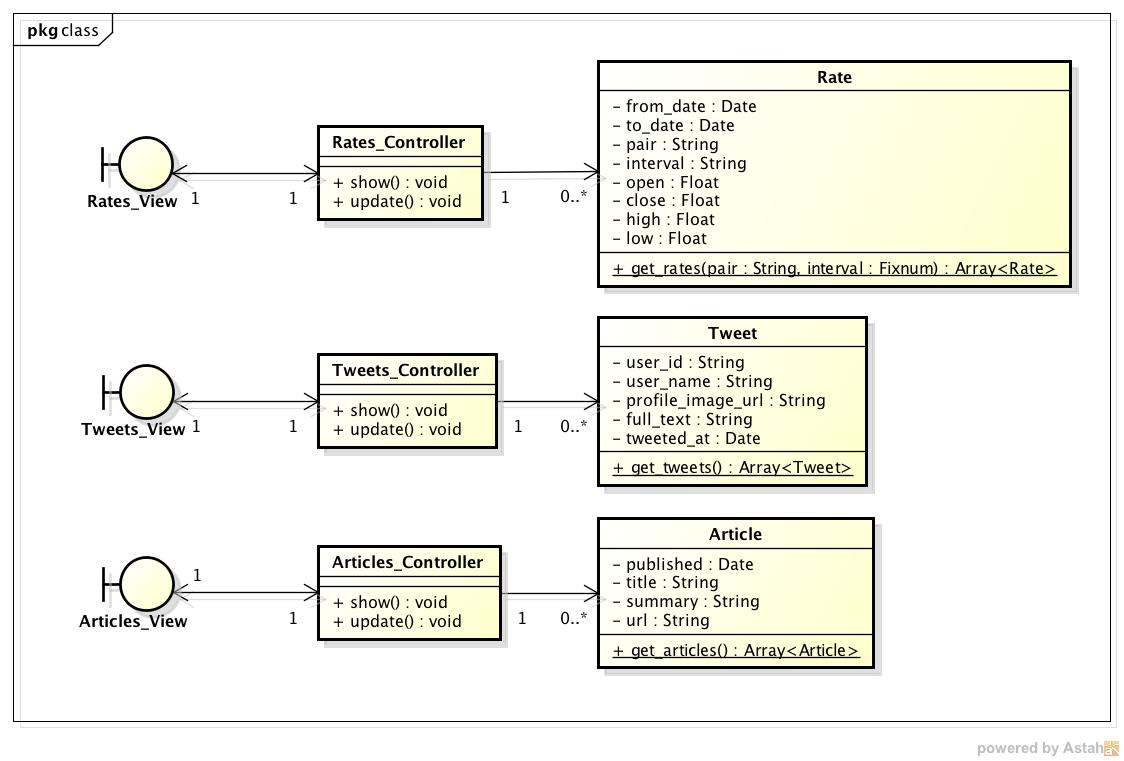
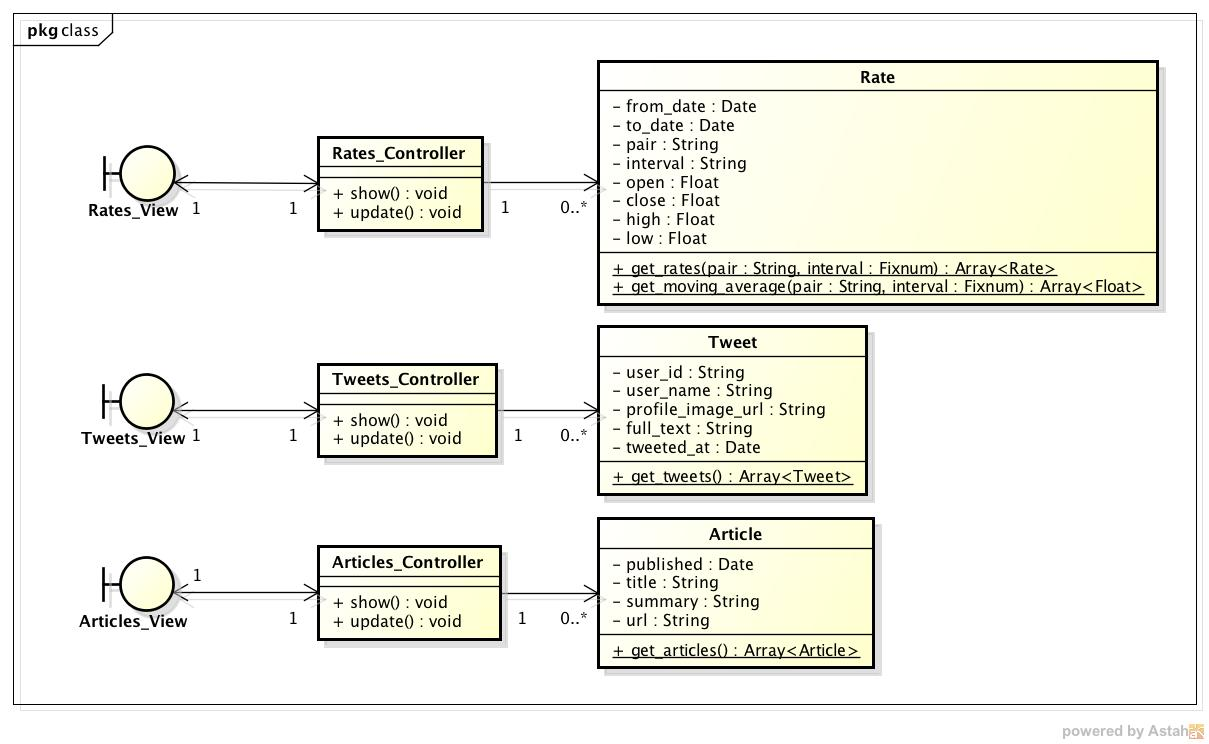
udpate design spec

Changed region(s): [[0.0623, 0.0309, 0.9964, 0.9892], [0.0, 0.0, 0.1246, 0.0927], [0.0, 0.9274, 0.0311, 0.9583]]

diff --git a/regulus/sphinx/_build/html/searchindex.js b/regulus/sphinx/_build/html/searchindex.js
@@ -1,1 +1,1 @@
-Search.setIndex({envversion:46,filenames:["design_spec","functional_spec","index","requirements_spec"],objects:{},objnames:{},objtypes:{},terms:{"10\u5206\u8db3":0,"12\u6642\u9593\u8db3":0,"1\u30f6\u6708\u8db3":0,"1\u65e5\u8db3":0,"1\u6642\u9593\u306a\u3069":1,"1\u6642\u9593\u8db3":0,"1\u672c\u306e\u30ed\u30fc\u30bd\u30af\u8db3\u304c\u8868\u3059\u671f\u9593":1,"1\u9031\u9593\u8db3":0,"20\u5206\u8db3":0,"2\u6642\u9593\u8db3":0,"30\u5206\u8db3":0,"3\u6642\u9593\u8db3":0,"4\u6642\u9593\u8db3":0,"5\u5206\u306a\u3069":0,"5\u5206\u8db3":0,"5\u5206\u9593":1,"6\u6642\u9593\u8db3":0,"\u3042\u308b\u6642\u70b9\u3067\u306e\u70ba\u66ff\u30ec\u30fc\u30c8\u306e\u60c5\u5831\u3092\u8868\u3059":1,"\u306b\u3088\u308a\u5b9a\u671f\u7684\u306b\u30ec\u30b3\u30fc\u30c9\u304c\u8ffd\u52a0\u3055\u308c\u308b":0,"\u306erss\u304b\u3089\u53d6\u5f97\u3057\u305f\u8a18\u4e8b\u3092\u30d6\u30e9\u30a6\u30b6\u4e0a\u306b\u8868\u793a\u3059\u308b":3,"\u3092\u5229\u7528\u3057\u3066\u53d6\u5f97\u3059\u308b":1,"\u3092\u6307\u5b9a\u3059\u308b":0,"\u3092\u6761\u4ef6\u3068\u3057\u3066\u691c\u7d22\u3057\u305f\u7d50\u679c\u3067\u3042\u308b":3,"\u30a2\u30ab\u30a6\u30f3\u30c8\u306e\u30d7\u30ed\u30d5\u30a3\u30fc\u30eb\u753b\u50cf\u306eurl":0,"\u30a2\u30d7\u30ea\u306f\u5c02\u7528\u30c7\u30fc\u30bf\u30d9\u30fc\u30b9\u304b\u3089\u30b3\u30d4\u30fc\u3057\u305f\u3082\u306e\u3092\u4f7f\u7528\u3059\u308b":0,"\u30ab\u30c3\u30b3\u5185\u306f\u30c6\u30fc\u30d6\u30eb\u306b\u767b\u9332\u3055\u308c\u308b\u6587\u5b57\u5217":0,"\u30ab\u30e9\u30e0":0,"\u30af\u30e9\u30b9\u56f3":0,"\u30b0\u30e9\u30d5\u306f\u5b9a\u671f\u7684\u306b\u66f4\u65b0\u3055\u308c\u308b":[1,3],"\u30b7\u30b9\u30c6\u30e0\u306f\u30c4\u30a4\u30fc\u30c8\u3092\u8868\u793a\u3059\u308b":3,"\u30b7\u30b9\u30c6\u30e0\u306f\u70ba\u66ff\u30ec\u30fc\u30c8\u306e\u5909\u5316\u3092\u8868\u3059\u30b0\u30e9\u30d5\u3092\u8868\u793a\u3059\u308b":3,"\u30b7\u30b9\u30c6\u30e0\u306f\u8a18\u4e8b\u3092\u8868\u793a\u3059\u308b":3,"\u30b7\u30fc\u30b1\u30f3\u30b9\u56f3":0,"\u30b9\u30af\u30ea\u30d7\u30c8\u540d":0,"\u30b9\u30af\u30ed\u30fc\u30eb\u3059\u308b\u3053\u3068\u3067\u53e4\u3044\u30c4\u30a4\u30fc\u30c8\u3092\u898b\u308b\u3053\u3068\u304c\u3067\u304d\u308b":1,"\u30b9\u30af\u30ed\u30fc\u30eb\u3059\u308b\u3053\u3068\u3067\u53e4\u3044\u8a18\u4e8b\u3092\u898b\u308b\u3053\u3068\u304c\u3067\u304d\u308b":1,"\u30bf\u30a4\u30c8\u30eb":1,"\u30bf\u30d6\u3092\u62bc\u3059\u3053\u3068\u3067\u8868\u793a\u3059\u308b\u3082\u306e\u3092\u5207\u308a\u66ff\u3048\u308b":1,"\u30c4\u30a4\u30fc\u30c8":0,"\u30c4\u30a4\u30fc\u30c8\u3057\u305f\u30e6\u30fc\u30b6\u30fc\u306e\u30d7\u30ed\u30d5\u30a3\u30fc\u30eb\u753b\u50cf":1,"\u30c4\u30a4\u30fc\u30c8\u3057\u305f\u30e6\u30fc\u30b6\u30fc\u306eid":1,"\u30c4\u30a4\u30fc\u30c8\u3057\u305f\u30e6\u30fc\u30b6\u540d":0,"\u30c4\u30a4\u30fc\u30c8\u3057\u305f\u65e5\u6642":[0,1],"\u30c4\u30a4\u30fc\u30c8\u306e\u30e6\u30fc\u30b6\u30fc\u540d":0,"\u30c4\u30a4\u30fc\u30c8\u306eid":0,"\u30c4\u30a4\u30fc\u30c8\u306f\u5b9a\u671f\u7684\u306b\u66f4\u65b0\u3055\u308c\u308b":3,"\u30c4\u30a4\u30fc\u30c8\u3084\u305d\u308c\u306b\u95a2\u9023\u3059\u308b\u60c5\u5831\u306ftwitter\u306eapi\u3092\u5229\u7528\u3057\u3066\u53d6\u5f97\u3059\u308b":1,"\u30c4\u30a4\u30fc\u30c8\u3092\u53d6\u5f97\u3059\u308b":0,"\u30c4\u30a4\u30fc\u30c8\u3092\u767b\u9332\u3059\u308btweets\u30c6\u30fc\u30d6\u30eb":0,"\u30c4\u30a4\u30fc\u30c8\u3092\u8868\u3059\u30af\u30e9\u30b9":0,"\u30c4\u30a4\u30fc\u30c8\u53d6\u5f97\u65e5":0,"\u30c4\u30a4\u30fc\u30c8\u60c5\u5831\u3092\u30d0\u30c3\u30af\u30a2\u30c3\u30d7\u3059\u308b":0,"\u30c4\u30a4\u30fc\u30c8\u65e5\u6642":[0,1],"\u30c4\u30a4\u30fc\u30c8\u672c\u6587":[0,1],"\u30c4\u30a4\u30fc\u30c8\u7528\u30b9\u30af\u30ea\u30d7\u30c8":0,"\u30c4\u30a4\u30fc\u30c8id":0,"\u30c7\u30fc\u30bf\u30d9\u30fc\u30b9\u306b\u306f":0,"\u30c9\u30eb\u5186":1,"\u30d0\u30c3\u30af\u30a2\u30c3\u30d7\u306a\u3069\u306e\u7ba1\u7406\u306f\u5916\u90e8\u30b9\u30af\u30ea\u30d7\u30c8\u3067\u5b9a\u671f\u7684\u306b\u5b9f\u884c\u3059\u308b":0,"\u30d3\u30e5\u30fc\u306b\u8868\u793a\u3059\u308b":0,"\u30d6\u30e9\u30a6\u30b6\u5168\u4f53\u306f\u30b9\u30af\u30ed\u30fc\u30eb\u3057\u306a\u3044":1,"\u30d7\u30ed\u30d5\u30a3\u30fc\u30eb\u753b\u50cf":1,"\u30da\u30a2":1,"\u30db\u30b9\u30c8\u540d":0,"\u30e6\u30fc\u30b6\u306e\u30d7\u30ed\u30d5\u30a3\u30fc\u30eb\u753b\u50cf":0,"\u30e6\u30fc\u30b6\u30fcid":1,"\u30e6\u30fc\u30b9\u30b1\u30fc\u30b9\u30b7\u30ca\u30ea\u30aa":3,"\u30e6\u30fc\u30b9\u30b1\u30fc\u30b9\u56f3":3,"\u30e6\u30fc\u30ed\u5186":1,"\u30ec\u30b3\u30fc\u30c9\u304c\u4f5c\u6210\u3055\u308c\u305f\u6642\u523b":0,"\u30ec\u30b3\u30fc\u30c9\u304c\u66f4\u65b0\u3055\u308c\u305f\u6642\u523b":0,"\u30ec\u30fc\u30c8":[0,1],"\u30ec\u30fc\u30c8\u60c5\u5831\u3092\u30d0\u30c3\u30af\u30a2\u30c3\u30d7\u3059\u308b":0,"\u30ec\u30fc\u30c8\u60c5\u5831\u3092\u767b\u9332\u3059\u308brates\u30c6\u30fc\u30d6\u30eb":0,"\u30ec\u30fc\u30c8\u60c5\u5831\u3092\u96c6\u7d04\u3057\u3066\u30ed\u30fc\u30bd\u30af\u8db3\u30c7\u30fc\u30bf\u3092\u4f5c\u6210\u3059\u308b":0,"\u30ec\u30fc\u30c8\u7528\u30b9\u30af\u30ea\u30d7\u30c8":0,"\u30ed\u30fc\u30bd\u30af\u8db3\u306b\u95a2\u3059\u308b\u30c7\u30fc\u30bf\u304c1\u3064\u306e\u30ec\u30b3\u30fc\u30c9\u3068\u3057\u3066\u4f5c\u6210\u3055\u308c\u308b":0,"\u30ed\u30fc\u30bd\u30af\u8db3\u30b0\u30e9\u30d5\u3092\u4f7f\u3063\u3066\u70ba\u66ff\u30ec\u30fc\u30c8\u306e\u5909\u52d5\u3092\u8868\u3059":1,"\u30ed\u30fc\u30bd\u30af\u8db3\u30c7\u30fc\u30bf\u306f\u751f\u30c7\u30fc\u30bf\u3092\u4f7f\u3063\u3066\u5b9a\u671f\u7684\u306b\u96c6\u8a08\u3055\u308c\u308b":0,"\u4e3b\u30ad\u30fc":0,"\u4ee5\u4e0b\u306e\u3044\u305a\u308c\u304b\u304c\u4fdd\u6301\u3055\u308c\u3066\u3044\u308b":0,"\u4ee5\u4e0b\u306e\u60c5\u5831\u3092\u4fdd\u6301\u3059\u308b":0,"\u4ee5\u964d\u306f10\u79d2\u3054\u3068\u306brates_control":0,"\u4ee5\u964d\u306f1\u79d2\u3054\u3068\u306btweets_control":0,"\u4ee5\u964d\u306f60\u79d2\u5f8c\u3068\u306barticles_control":0,"\u4f8b":[0,1],"\u5185\u5bb9":0,"\u51e6\u7406\u5185\u5bb9":0,"\u5229\u7528\u8005\u304chttp":0,"\u5229\u7528\u8005\u304cweb\u30da\u30fc\u30b8\u306b\u30a2\u30af\u30bb\u30b9\u3057\u3066\u304b\u3089\u30c4\u30a4\u30fc\u30c8\u3092\u78ba\u8a8d\u3059\u308b\u307e\u3067\u306e\u6d41\u308c":0,"\u5229\u7528\u8005\u304cweb\u30da\u30fc\u30b8\u306b\u30a2\u30af\u30bb\u30b9\u3057\u3066\u304b\u3089\u30ec\u30fc\u30c8\u3092\u78ba\u8a8d\u3059\u308b\u307e\u3067\u306e\u6d41\u308c":0,"\u5229\u7528\u8005\u304cweb\u30da\u30fc\u30b8\u306b\u30a2\u30af\u30bb\u30b9\u3057\u3066\u304b\u3089\u8a18\u4e8b\u3092\u78ba\u8a8d\u3059\u308b\u307e\u3067\u306e\u6d41\u308c":0,"\u5229\u7528\u8005\u306f\u30d6\u30e9\u30a6\u30b6\u304b\u3089\u30b7\u30b9\u30c6\u30e0\u306b\u30a2\u30af\u30bb\u30b9\u3059\u308b":3,"\u5229\u7528\u8005\u306f\u30d6\u30e9\u30a6\u30b6\u3092\u64cd\u4f5c\u3057\u3066\u30ec\u30fc\u30c8":1,"\u5229\u7528\u8005\u306f\u753b\u9762\u4e0a\u90e8\u306e\u30d7\u30eb\u30c0\u30a6\u30f3\u304b\u3089\u30da\u30a2\u3068\u671f\u9593\u3092\u9078\u629e\u3059\u308b":1,"\u53d6\u5f97\u3057\u305f\u30c4\u30a4\u30fc\u30c8\u3092\u8868\u793a\u3059\u308b":0,"\u53d6\u5f97\u3057\u305f\u30ec\u30fc\u30c8\u3092\u30b0\u30e9\u30d5\u5316\u3057\u3066\u8868\u793a\u3059\u308b":0,"\u53d6\u5f97\u3057\u305f\u60c5\u5831\u306f\u30a2\u30d7\u30ea\u304c\u7ba1\u7406\u3059\u308b\u30c7\u30fc\u30bf\u30d9\u30fc\u30b9\u3067\u306f\u306a\u304f":0,"\u53d6\u5f97\u3057\u305f\u8a18\u4e8b\u3092\u8868\u793a\u3059\u308b":0,"\u53e4\u3044\u30c4\u30a4\u30fc\u30c8\u60c5\u5831\u3092\u524a\u9664\u3059\u308b":0,"\u53e4\u3044\u30ec\u30fc\u30c8\u60c5\u5831\u3092\u524a\u9664\u3059\u308b":0,"\u578b":0,"\u59cb\u5024":0,"\u5b89\u5024":0,"\u5c02\u7528\u306e\u30c7\u30fc\u30bf\u30d9\u30fc\u30b9\u306b\u767b\u9332\u3055\u308c\u308b":0,"\u5f15\u6570\u306b\u306f\u30da\u30a2\u30b3\u30fc\u30c9\u3068\u8db3\u306e\u7a2e\u985e":0,"\u610f\u5473":1,"\u6307\u5b9a\u3055\u308c\u305f\u30da\u30a2":1,"\u65b0\u3057\u3044\u30c4\u30a4\u30fc\u30c8\u307b\u3069\u753b\u9762\u4e0a\u90e8\u306b\u8868\u793a\u3055\u308c\u308b":1,"\u65b0\u3057\u3044\u8a18\u4e8b\u307b\u3069\u753b\u9762\u4e0a\u90e8\u306b\u8868\u793a\u3055\u308c\u308b":1,"\u65e5\u672c\u7d4c\u6e08\u65b0\u805e":3,"\u65e5\u7d4c":3,"\u6700\u65b0100\u4ef6\u306e\u30c4\u30a4\u30fc\u30c8\u60c5\u5831\u3092\u53d6\u5f97\u3059\u308b":0,"\u6700\u65b0100\u4ef6\u306e\u8a18\u4e8b\u60c5\u5831\u3092\u53d6\u5f97\u3059\u308b":0,"\u6700\u65b0100\u4ef6\u3092\u8868\u793a\u3059\u308b":1,"\u671f\u9593":1,"\u671f\u9593\u306e\u30ed\u30fc\u30bd\u30af\u8db3\u30b0\u30e9\u30d5\u3068\u79fb\u52d5\u5e73\u5747\u7dda\u3092\u8868\u793a\u3059\u308b":1,"\u672c\u30b7\u30b9\u30c6\u30e0\u3067\u306f\u4ee5\u4e0b\u306e\u30c7\u30fc\u30bf\u3092\u6271\u3046":1,"\u672c\u30b7\u30b9\u30c6\u30e0\u306f\u4ee5\u4e0b\u306e\uff13\u3064\u306e\u6a5f\u80fd\u3092\u63d0\u4f9b\u3059\u308b":3,"\u672c\u6587":1,"\u6a5f\u80fd\u4ed5\u69d8\u3067\u306f\u4ee5\u4e0b\u3092\u5b9a\u7fa9\u3059\u308b":1,"\u70ba\u66ff":3,"\u70ba\u66ff\u306b\u95a2\u9023\u3059\u308b\u30c4\u30a4\u30fc\u30c8\u3092\u8868\u3059":1,"\u70ba\u66ff\u306b\u95a2\u9023\u3059\u308b\u8a18\u4e8b\u3092\u8868\u3059":1,"\u70ba\u66ff\u306e\u30da\u30a2\u30b3\u30fc\u30c9":0,"\u70ba\u66ff\u30ec\u30fc\u30c8\u306e\u30da\u30a2":1,"\u70ba\u66ff\u30ec\u30fc\u30c8\u306e\u5024":1,"\u70ba\u66ff\u30ec\u30fc\u30c8\u306e\u5909\u5316\u3092\u8868\u3057\u305f\u30ed\u30fc\u30bd\u30af\u8db3\u30b0\u30e9\u30d5\u3092\u30d6\u30e9\u30a6\u30b6\u4e0a\u306b\u8868\u793a\u3059\u308b":3,"\u70ba\u66ff\u30ec\u30fc\u30c8\u306fyahoo":1,"\u70ba\u66ff\u30ec\u30fc\u30c8\u3092\u8868\u3059\u30af\u30e9\u30b9":0,"\u751f\u30c7\u30fc\u30bf\u306f\u5916\u90e8\u30b9\u30af\u30ea\u30d7\u30c8\u3092\u4f7f\u3063\u3066\u53d6\u5f97\u3059\u308b":0,"\u753b\u9762\u306b\u306f\u30ec\u30fc\u30c8":1,"\u767a\u884c\u65e5\u6642":1,"\u79fb\u52d5\u5e73\u5747\u7dda\u306f\u76f4\u8fd175\u672c\u5206\u306e\u30ec\u30fc\u30c8\u60c5\u5831\u304b\u3089\u8a08\u7b97\u3055\u308c\u308b":1,"\u7d42\u4e86":0,"\u7d42\u4e86\u6642\u523b":0,"\u7d42\u5024":0,"\u8868\u793a\u3055\u308c\u3066\u3044\u308b\u30bf\u30d6\u306f\u767d\u9ed2\u53cd\u8ee2\u3059\u308b":1,"\u8868\u793a\u3055\u308c\u308b\u30c4\u30a4\u30fc\u30c8\u306f":3,"\u8981\u6c42\u4ed5\u69d8":2,"\u8981\u7d04":1,"\u8981\u7d20":1,"\u8a18\u4e8b\u304c\u63b2\u8f09\u3055\u308c\u3066\u3044\u308brss\u3078\u306eurl":1,"\u8a18\u4e8b\u304c\u767a\u884c\u3055\u308c\u305f\u65e5\u6642":[0,1],"\u8a18\u4e8b\u306e\u3069\u308c\u304b\u304c\u8868\u793a\u3055\u308c\u3066\u3044\u308b":1,"\u8a18\u4e8b\u306e\u30bf\u30a4\u30c8\u30eb":[0,1],"\u8a18\u4e8b\u306e\u53d6\u5f97":0,"\u8a18\u4e8b\u306e\u60c5\u5831\u3092\u53d6\u5f97\u3059\u308b\u30b9\u30af\u30ea\u30d7\u30c8\u304c\u5b9a\u671f\u7684\u306b\u5b9f\u884c\u3055\u308c\u3066mysql\u306b\u767b\u9332\u3055\u308c\u308b":0,"\u8a18\u4e8b\u306e\u8981\u7d04":0,"\u8a18\u4e8b\u306e\u8981\u7d04\u6587":1,"\u8a18\u4e8b\u306f\u5b9a\u671f\u7684\u306b\u66f4\u65b0\u3055\u308c\u308b":3,"\u8a18\u4e8b\u3078\u306eurl":0,"\u8a18\u4e8b\u3084\u305d\u308c\u306b\u95a2\u9023\u3059\u308b\u60c5\u5831\u306f\u53d6\u5f97\u3057\u305frss\u304b\u3089\u62bd\u51fa\u3059\u308b":1,"\u8a18\u4e8b\u3092\u53d6\u5f97\u3059\u308b":0,"\u8a18\u4e8b\u3092\u767b\u9332\u3059\u308barticles\u30c6\u30fc\u30d6\u30eb\u3092\u5b9a\u7fa9\u3059\u308b":0,"\u8a18\u4e8b\u3092\u8868\u3059\u30af\u30e9\u30b9":0,"\u8a18\u4e8b\u53d6\u5f97\u65e5":0,"\u8a18\u4e8b\u672c\u6587\u3078\u306eurl":0,"\u8a18\u4e8b\u7528\u30b9\u30af\u30ea\u30d7\u30c8":0,"\u8a2d\u8a08\u4ed5\u69d8\u3067\u306f\u4ee5\u4e0b\u3092\u5b9a\u7fa9\u3059\u308b":0,"\u8db3\u306e\u671f\u9593":0,"\u8db3\u306e\u7a2e\u985e":0,"\u958b\u59cb":0,"\u958b\u59cb\u6642\u523b":0,"\u96c6\u7d04\u3059\u308b\u305f\u3081\u306esql\u30af\u30a8\u30ea":0,"\u96c6\u8a08\u5bfe\u8c61\u30c7\u30fc\u30bf\u306e\u7bc4\u56f2":0,"\u96c6\u8a08\u5bfe\u8c61\u671f\u9593":0,"\u9ad8\u5024":0,"api\u3092\u5229\u7528\u3057\u3066\u30c4\u30a4\u30fc\u30c8\u60c5\u5831\u3092\u53d6\u5f97":0,"article\u30aa\u30d6\u30b8\u30a7\u30af\u30c8\u3092\u53d6\u5f97\u3057":0,"article\u30af\u30e9\u30b9\u306e\u30b3\u30f3\u30c8\u30ed\u30fc\u30e9":0,"articles\u306b\u30a2\u30af\u30bb\u30b9\u3059\u308b":0,"articles\u30c6\u30fc\u30d6\u30eb":0,"db\u306b\u767b\u9332\u3059\u308b":0,"float":0,"get_articles\u3092\u5b9f\u884c\u3057":0,"get_rates\u3092\u5b9f\u884c\u3059\u308b":0,"get_tweets\u3092\u5b9f\u884c\u3057":0,"import":0,"jp\u304b\u3089\u30ec\u30fc\u30c8\u60c5\u5831\u3092\u53d6\u5f97":0,"mvc\u30e2\u30c7\u30eb\u3092\u5229\u7528\u3059\u308b":0,"null":0,"rate\u30aa\u30d6\u30b8\u30a7\u30af\u30c8\u3092\u53d6\u5f97\u3057":0,"rate\u30af\u30e9\u30b9\u306e\u30b3\u30f3\u30c8\u30ed\u30fc\u30e9":0,"rates\u306b\u30a2\u30af\u30bb\u30b9\u3059\u308b":0,"rates\u30c6\u30fc\u30d6\u30eb":0,"rss\u304b\u3089\u8a18\u4e8b\u60c5\u5831\u3092\u62bd\u51fa":0,"show\u3092\u5b9f\u884c\u3059\u308b":0,"tweet\u30aa\u30d6\u30b8\u30a7\u30af\u30c8\u3092\u53d6\u5f97\u3057":0,"tweet\u30af\u30e9\u30b9\u306e\u30b3\u30f3\u30c8\u30ed\u30fc\u30e9":0,"tweets\u306b\u30a2\u30af\u30bb\u30b9\u3059\u308b":0,"tweets\u30c6\u30fc\u30d6\u30eb":0,"twitter\u304b\u3089\u53d6\u5f97\u3057\u305f\u30c4\u30a4\u30fc\u30c8\u3092\u30d6\u30e9\u30a6\u30b6\u4e0a\u306b\u8868\u793a\u3059\u308b":3,"update\u3092\u5b9f\u884c\u3057\u3066\u30b0\u30e9\u30d5\u3092\u66f4\u65b0\u3059\u308b":0,"update\u3092\u5b9f\u884c\u3057\u3066\u30c4\u30a4\u30fc\u30c8\u3092\u66f4\u65b0\u3059\u308b":0,"update\u3092\u5b9f\u884c\u3057\u3066\u8a18\u4e8b\u3092\u66f4\u65b0\u3059\u308b":0,"web\u30d6\u30e9\u30a6\u30b6\u4e0a\u3067\u8868\u793a\u3059\u308b\u753b\u9762":0,aggreg:0,articl:0,articles_control:0,articless:0,close:0,confirmation_view:0,content:2,control:0,created_at:0,dai:0,datetim:0,delet:0,dump:0,financ:0,from_dat:0,full_text:0,high:0,hour:0,index:2,info:0,interv:0,languag:1,low:0,min:0,model:0,modul:2,month:0,open:0,page:2,pair:0,profile_image_url:0,publish:0,queri:1,rate:0,rates_control:0,search:2,sql:0,summari:0,text:0,titl:0,to_dat:0,tweet:0,tweet_id:0,tweeted_at:0,tweets_control:0,twitter:0,updated_at:0,url:[0,1],usdjpi:0,user_nam:0,varcahr:0,varchar:0,view:0,week:0,yahoo:0,yql:1},titles:["\u8a2d\u8a08\u4ed5\u69d8","\u6a5f\u80fd\u4ed5\u69d8","Welcome to regulus&#8217;s documentation!","\u8981\u6c42\u4ed5\u69d8"],titleterms:{"\u30b9\u30af\u30ea\u30d7\u30c8\u4e00\u89a7":0,"\u30c4\u30a4\u30fc\u30c8":1,"\u30c4\u30a4\u30fc\u30c8\u306e\u8868\u793a":3,"\u30c4\u30a4\u30fc\u30c8\u3092\u78ba\u8a8d\u3059\u308b":0,"\u30c4\u30a4\u30fc\u30c8\u8868\u793a\u753b\u9762":1,"\u30c7\u30fc\u30bf\u30d9\u30fc\u30b9\u69cb\u6210":0,"\u30c7\u30fc\u30bf\u69cb\u9020":1,"\u30e2\u30b8\u30e5\u30fc\u30eb\u69cb\u6210":0,"\u30e6\u30fc\u30b6\u30fc\u30a4\u30f3\u30bf\u30fc\u30d5\u30a7\u30fc\u30b9":1,"\u30ec\u30fc\u30c8\u3092\u78ba\u8a8d\u3059\u308b":0,"\u30ec\u30fc\u30c8\u8868\u793a\u753b\u9762":1,"\u51e6\u7406\u624b\u9806":0,"\u5916\u90e8\u30b9\u30af\u30ea\u30d7\u30c8":0,"\u69cb\u6210\u8981\u7d20":1,"\u6a5f\u80fd\u4ed5\u69d8":1,"\u70ba\u66ff\u30ec\u30fc\u30c8":1,"\u70ba\u66ff\u30ec\u30fc\u30c8\u306e\u8868\u793a":3,"\u753b\u9762\u9077\u79fb\u56f3":1,"\u8981\u6c42\u4ed5\u69d8":3,"\u8a18\u4e8b":1,"\u8a18\u4e8b\u306e\u8868\u793a":3,"\u8a18\u4e8b\u3092\u78ba\u8a8d\u3059\u308b":0,"\u8a18\u4e8b\u8868\u793a\u753b\u9762":1,"\u8a2d\u8a08\u4ed5\u69d8":0,document:2,indic:2,regulu:2,tabl:2,welcom:2}})
+Search.setIndex({envversion:46,filenames:["design_spec","functional_spec","index","requirements_spec"],objects:{},objnames:{},objtypes:{},terms:{"10\u5206\u8db3":0,"12\u6642\u9593\u8db3":0,"1\u30f6\u6708\u8db3":0,"1\u65e5\u8db3":0,"1\u6642\u9593\u306a\u3069":1,"1\u6642\u9593\u8db3":0,"1\u672c\u306e\u30ed\u30fc\u30bd\u30af\u8db3\u304c\u8868\u3059\u671f\u9593":1,"1\u9031\u9593\u8db3":0,"20\u5206\u8db3":0,"2\u6642\u9593\u8db3":0,"30\u5206\u8db3":0,"3\u6642\u9593\u8db3":0,"4\u6642\u9593\u8db3":0,"5\u5206\u306a\u3069":0,"5\u5206\u8db3":0,"5\u5206\u9593":1,"6\u6642\u9593\u8db3":0,"\u3042\u308b\u6642\u70b9\u3067\u306e\u70ba\u66ff\u30ec\u30fc\u30c8\u306e\u60c5\u5831\u3092\u8868\u3059":1,"\u306b\u3088\u308a\u5b9a\u671f\u7684\u306b\u30ec\u30b3\u30fc\u30c9\u304c\u8ffd\u52a0\u3055\u308c\u308b":0,"\u306erss\u304b\u3089\u53d6\u5f97\u3057\u305f\u8a18\u4e8b\u3092\u30d6\u30e9\u30a6\u30b6\u4e0a\u306b\u8868\u793a\u3059\u308b":3,"\u3092\u5229\u7528\u3057\u3066\u53d6\u5f97\u3059\u308b":1,"\u3092\u6307\u5b9a\u3059\u308b":0,"\u3092\u6761\u4ef6\u3068\u3057\u3066\u691c\u7d22\u3057\u305f\u7d50\u679c\u3067\u3042\u308b":3,"\u30a2\u30ab\u30a6\u30f3\u30c8\u306e\u30d7\u30ed\u30d5\u30a3\u30fc\u30eb\u753b\u50cf\u306eurl":0,"\u30a2\u30d7\u30ea\u306f\u5c02\u7528\u30c7\u30fc\u30bf\u30d9\u30fc\u30b9\u304b\u3089\u30b3\u30d4\u30fc\u3057\u305f\u3082\u306e\u3092\u4f7f\u7528\u3059\u308b":0,"\u30ab\u30c3\u30b3\u5185\u306f\u30c6\u30fc\u30d6\u30eb\u306b\u767b\u9332\u3055\u308c\u308b\u6587\u5b57\u5217":0,"\u30ab\u30e9\u30e0":0,"\u30af\u30e9\u30b9\u56f3":0,"\u30b0\u30e9\u30d5\u306f\u5b9a\u671f\u7684\u306b\u66f4\u65b0\u3055\u308c\u308b":[1,3],"\u30b7\u30b9\u30c6\u30e0\u306f\u30c4\u30a4\u30fc\u30c8\u3092\u8868\u793a\u3059\u308b":3,"\u30b7\u30b9\u30c6\u30e0\u306f\u70ba\u66ff\u30ec\u30fc\u30c8\u306e\u5909\u5316\u3092\u8868\u3059\u30b0\u30e9\u30d5\u3092\u8868\u793a\u3059\u308b":3,"\u30b7\u30b9\u30c6\u30e0\u306f\u8a18\u4e8b\u3092\u8868\u793a\u3059\u308b":3,"\u30b7\u30fc\u30b1\u30f3\u30b9\u56f3":0,"\u30b9\u30af\u30ea\u30d7\u30c8\u540d":0,"\u30b9\u30af\u30ed\u30fc\u30eb\u3059\u308b\u3053\u3068\u3067\u53e4\u3044\u30c4\u30a4\u30fc\u30c8\u3092\u898b\u308b\u3053\u3068\u304c\u3067\u304d\u308b":1,"\u30b9\u30af\u30ed\u30fc\u30eb\u3059\u308b\u3053\u3068\u3067\u53e4\u3044\u8a18\u4e8b\u3092\u898b\u308b\u3053\u3068\u304c\u3067\u304d\u308b":1,"\u30bf\u30a4\u30c8\u30eb":1,"\u30bf\u30d6\u3092\u62bc\u3059\u3053\u3068\u3067\u8868\u793a\u3059\u308b\u3082\u306e\u3092\u5207\u308a\u66ff\u3048\u308b":1,"\u30c4\u30a4\u30fc\u30c8":0,"\u30c4\u30a4\u30fc\u30c8\u3057\u305f\u30e6\u30fc\u30b6\u30fc\u306e\u30d7\u30ed\u30d5\u30a3\u30fc\u30eb\u753b\u50cf":1,"\u30c4\u30a4\u30fc\u30c8\u3057\u305f\u30e6\u30fc\u30b6\u30fc\u306eid":1,"\u30c4\u30a4\u30fc\u30c8\u3057\u305f\u30e6\u30fc\u30b6\u540d":0,"\u30c4\u30a4\u30fc\u30c8\u3057\u305f\u65e5\u6642":[0,1],"\u30c4\u30a4\u30fc\u30c8\u306e\u30e6\u30fc\u30b6\u30fc\u540d":0,"\u30c4\u30a4\u30fc\u30c8\u306eid":0,"\u30c4\u30a4\u30fc\u30c8\u306f\u5b9a\u671f\u7684\u306b\u66f4\u65b0\u3055\u308c\u308b":3,"\u30c4\u30a4\u30fc\u30c8\u3084\u305d\u308c\u306b\u95a2\u9023\u3059\u308b\u60c5\u5831\u306ftwitter\u306eapi\u3092\u5229\u7528\u3057\u3066\u53d6\u5f97\u3059\u308b":1,"\u30c4\u30a4\u30fc\u30c8\u3092\u53d6\u5f97\u3059\u308b":0,"\u30c4\u30a4\u30fc\u30c8\u3092\u767b\u9332\u3059\u308btweets\u30c6\u30fc\u30d6\u30eb":0,"\u30c4\u30a4\u30fc\u30c8\u3092\u8868\u3059\u30af\u30e9\u30b9":0,"\u30c4\u30a4\u30fc\u30c8\u53d6\u5f97\u65e5":0,"\u30c4\u30a4\u30fc\u30c8\u60c5\u5831\u3092\u30d0\u30c3\u30af\u30a2\u30c3\u30d7\u3059\u308b":0,"\u30c4\u30a4\u30fc\u30c8\u65e5\u6642":[0,1],"\u30c4\u30a4\u30fc\u30c8\u672c\u6587":[0,1],"\u30c4\u30a4\u30fc\u30c8\u7528\u30b9\u30af\u30ea\u30d7\u30c8":0,"\u30c4\u30a4\u30fc\u30c8id":0,"\u30c7\u30fc\u30bf\u30d9\u30fc\u30b9\u306b\u306f":0,"\u30c9\u30eb\u5186":1,"\u30d0\u30c3\u30af\u30a2\u30c3\u30d7\u306a\u3069\u306e\u7ba1\u7406\u306f\u5916\u90e8\u30b9\u30af\u30ea\u30d7\u30c8\u3067\u5b9a\u671f\u7684\u306b\u5b9f\u884c\u3059\u308b":0,"\u30d3\u30e5\u30fc\u306b\u8868\u793a\u3059\u308b":0,"\u30d6\u30e9\u30a6\u30b6\u5168\u4f53\u306f\u30b9\u30af\u30ed\u30fc\u30eb\u3057\u306a\u3044":1,"\u30d7\u30ed\u30d5\u30a3\u30fc\u30eb\u753b\u50cf":1,"\u30da\u30a2":1,"\u30db\u30b9\u30c8\u540d":0,"\u30e6\u30fc\u30b6\u306e\u30d7\u30ed\u30d5\u30a3\u30fc\u30eb\u753b\u50cf":0,"\u30e6\u30fc\u30b6\u30fcid":1,"\u30e6\u30fc\u30b9\u30b1\u30fc\u30b9\u30b7\u30ca\u30ea\u30aa":3,"\u30e6\u30fc\u30b9\u30b1\u30fc\u30b9\u56f3":3,"\u30e6\u30fc\u30ed\u5186":1,"\u30ec\u30b3\u30fc\u30c9\u304c\u4f5c\u6210\u3055\u308c\u305f\u6642\u523b":0,"\u30ec\u30b3\u30fc\u30c9\u304c\u66f4\u65b0\u3055\u308c\u305f\u6642\u523b":0,"\u30ec\u30fc\u30c8":[0,1],"\u30ec\u30fc\u30c8\u60c5\u5831\u3092\u30d0\u30c3\u30af\u30a2\u30c3\u30d7\u3059\u308b":0,"\u30ec\u30fc\u30c8\u60c5\u5831\u3092\u767b\u9332\u3059\u308brates\u30c6\u30fc\u30d6\u30eb":0,"\u30ec\u30fc\u30c8\u60c5\u5831\u3092\u96c6\u7d04\u3057\u3066\u30ed\u30fc\u30bd\u30af\u8db3\u30c7\u30fc\u30bf\u3092\u4f5c\u6210\u3059\u308b":0,"\u30ec\u30fc\u30c8\u7528\u30b9\u30af\u30ea\u30d7\u30c8":0,"\u30ed\u30fc\u30bd\u30af\u8db3\u306b\u95a2\u3059\u308b\u30c7\u30fc\u30bf\u304c1\u3064\u306e\u30ec\u30b3\u30fc\u30c9\u3068\u3057\u3066\u4f5c\u6210\u3055\u308c\u308b":0,"\u30ed\u30fc\u30bd\u30af\u8db3\u30b0\u30e9\u30d5\u3092\u4f7f\u3063\u3066\u70ba\u66ff\u30ec\u30fc\u30c8\u306e\u5909\u52d5\u3092\u8868\u3059":1,"\u30ed\u30fc\u30bd\u30af\u8db3\u30c7\u30fc\u30bf\u306f\u751f\u30c7\u30fc\u30bf\u3092\u4f7f\u3063\u3066\u5b9a\u671f\u7684\u306b\u96c6\u8a08\u3055\u308c\u308b":0,"\u4e3b\u30ad\u30fc":0,"\u4ee5\u4e0b\u306e\u3044\u305a\u308c\u304b\u304c\u4fdd\u6301\u3055\u308c\u3066\u3044\u308b":0,"\u4ee5\u4e0b\u306e\u60c5\u5831\u3092\u4fdd\u6301\u3059\u308b":0,"\u4ee5\u964d\u306f10\u79d2\u3054\u3068\u306brates_control":0,"\u4ee5\u964d\u306f1\u79d2\u3054\u3068\u306btweets_control":0,"\u4ee5\u964d\u306f60\u79d2\u5f8c\u3068\u306barticles_control":0,"\u4f8b":[0,1],"\u5185\u5bb9":0,"\u51e6\u7406\u5185\u5bb9":0,"\u5229\u7528\u8005\u304chttp":0,"\u5229\u7528\u8005\u304cweb\u30da\u30fc\u30b8\u306b\u30a2\u30af\u30bb\u30b9\u3057\u3066\u304b\u3089\u30c4\u30a4\u30fc\u30c8\u3092\u78ba\u8a8d\u3059\u308b\u307e\u3067\u306e\u6d41\u308c":0,"\u5229\u7528\u8005\u304cweb\u30da\u30fc\u30b8\u306b\u30a2\u30af\u30bb\u30b9\u3057\u3066\u304b\u3089\u30ec\u30fc\u30c8\u3092\u78ba\u8a8d\u3059\u308b\u307e\u3067\u306e\u6d41\u308c":0,"\u5229\u7528\u8005\u304cweb\u30da\u30fc\u30b8\u306b\u30a2\u30af\u30bb\u30b9\u3057\u3066\u304b\u3089\u8a18\u4e8b\u3092\u78ba\u8a8d\u3059\u308b\u307e\u3067\u306e\u6d41\u308c":0,"\u5229\u7528\u8005\u306f\u30d6\u30e9\u30a6\u30b6\u304b\u3089\u30b7\u30b9\u30c6\u30e0\u306b\u30a2\u30af\u30bb\u30b9\u3059\u308b":3,"\u5229\u7528\u8005\u306f\u30d6\u30e9\u30a6\u30b6\u3092\u64cd\u4f5c\u3057\u3066\u30ec\u30fc\u30c8":1,"\u5229\u7528\u8005\u306f\u753b\u9762\u4e0a\u90e8\u306e\u30d7\u30eb\u30c0\u30a6\u30f3\u304b\u3089\u30da\u30a2\u3068\u671f\u9593\u3092\u9078\u629e\u3059\u308b":1,"\u53d6\u5f97\u3057\u305f\u30c4\u30a4\u30fc\u30c8\u3092\u8868\u793a\u3059\u308b":0,"\u53d6\u5f97\u3057\u305f\u30ec\u30fc\u30c8\u3092\u30b0\u30e9\u30d5\u5316\u3057\u3066\u8868\u793a\u3059\u308b":0,"\u53d6\u5f97\u3057\u305f\u60c5\u5831\u306f\u30a2\u30d7\u30ea\u304c\u7ba1\u7406\u3059\u308b\u30c7\u30fc\u30bf\u30d9\u30fc\u30b9\u3067\u306f\u306a\u304f":0,"\u53d6\u5f97\u3057\u305f\u8a18\u4e8b\u3092\u8868\u793a\u3059\u308b":0,"\u53e4\u3044\u30c4\u30a4\u30fc\u30c8\u60c5\u5831\u3092\u524a\u9664\u3059\u308b":0,"\u53e4\u3044\u30ec\u30fc\u30c8\u60c5\u5831\u3092\u524a\u9664\u3059\u308b":0,"\u578b":0,"\u59cb\u5024":0,"\u5b89\u5024":0,"\u5c02\u7528\u306e\u30c7\u30fc\u30bf\u30d9\u30fc\u30b9\u306b\u767b\u9332\u3055\u308c\u308b":0,"\u5f15\u6570\u306b\u306f\u30da\u30a2\u30b3\u30fc\u30c9\u3068\u8db3\u306e\u7a2e\u985e":0,"\u610f\u5473":1,"\u6307\u5b9a\u3055\u308c\u305f\u30da\u30a2":1,"\u65b0\u3057\u3044\u30c4\u30a4\u30fc\u30c8\u307b\u3069\u753b\u9762\u4e0a\u90e8\u306b\u8868\u793a\u3055\u308c\u308b":1,"\u65b0\u3057\u3044\u8a18\u4e8b\u307b\u3069\u753b\u9762\u4e0a\u90e8\u306b\u8868\u793a\u3055\u308c\u308b":1,"\u65e5\u672c\u7d4c\u6e08\u65b0\u805e":3,"\u65e5\u7d4c":3,"\u6700\u65b0100\u4ef6\u306e\u30c4\u30a4\u30fc\u30c8\u60c5\u5831\u3092\u53d6\u5f97\u3059\u308b":0,"\u6700\u65b0100\u4ef6\u306e\u8a18\u4e8b\u60c5\u5831\u3092\u53d6\u5f97\u3059\u308b":0,"\u6700\u65b0100\u4ef6\u3092\u8868\u793a\u3059\u308b":1,"\u671f\u9593":1,"\u671f\u9593\u306e\u30ed\u30fc\u30bd\u30af\u8db3\u30b0\u30e9\u30d5\u3068\u79fb\u52d5\u5e73\u5747\u7dda\u3092\u8868\u793a\u3059\u308b":1,"\u672c\u30b7\u30b9\u30c6\u30e0\u3067\u306f\u4ee5\u4e0b\u306e\u30c7\u30fc\u30bf\u3092\u6271\u3046":1,"\u672c\u30b7\u30b9\u30c6\u30e0\u306f\u4ee5\u4e0b\u306e\uff13\u3064\u306e\u6a5f\u80fd\u3092\u63d0\u4f9b\u3059\u308b":3,"\u672c\u6587":1,"\u6a5f\u80fd\u4ed5\u69d8\u3067\u306f\u4ee5\u4e0b\u3092\u5b9a\u7fa9\u3059\u308b":1,"\u70ba\u66ff":3,"\u70ba\u66ff\u306b\u95a2\u9023\u3059\u308b\u30c4\u30a4\u30fc\u30c8\u3092\u8868\u3059":1,"\u70ba\u66ff\u306b\u95a2\u9023\u3059\u308b\u8a18\u4e8b\u3092\u8868\u3059":1,"\u70ba\u66ff\u306e\u30da\u30a2\u30b3\u30fc\u30c9":0,"\u70ba\u66ff\u30ec\u30fc\u30c8\u306e\u30da\u30a2":1,"\u70ba\u66ff\u30ec\u30fc\u30c8\u306e\u5024":1,"\u70ba\u66ff\u30ec\u30fc\u30c8\u306e\u5909\u5316\u3092\u8868\u3057\u305f\u30ed\u30fc\u30bd\u30af\u8db3\u30b0\u30e9\u30d5\u3092\u30d6\u30e9\u30a6\u30b6\u4e0a\u306b\u8868\u793a\u3059\u308b":3,"\u70ba\u66ff\u30ec\u30fc\u30c8\u306fyahoo":1,"\u70ba\u66ff\u30ec\u30fc\u30c8\u3092\u8868\u3059\u30af\u30e9\u30b9":0,"\u751f\u30c7\u30fc\u30bf\u306f\u5916\u90e8\u30b9\u30af\u30ea\u30d7\u30c8\u3092\u4f7f\u3063\u3066\u53d6\u5f97\u3059\u308b":0,"\u753b\u9762\u306b\u306f\u30ec\u30fc\u30c8":1,"\u767a\u884c\u65e5\u6642":1,"\u79fb\u52d5\u5e73\u5747\u7dda\u306f\u76f4\u8fd175\u672c\u5206\u306e\u30ec\u30fc\u30c8\u60c5\u5831\u304b\u3089\u8a08\u7b97\u3055\u308c\u308b":1,"\u7d42\u4e86":0,"\u7d42\u4e86\u6642\u523b":0,"\u7d42\u5024":0,"\u8868\u793a\u3055\u308c\u3066\u3044\u308b\u30bf\u30d6\u306f\u767d\u9ed2\u53cd\u8ee2\u3059\u308b":1,"\u8868\u793a\u3055\u308c\u308b\u30c4\u30a4\u30fc\u30c8\u306f":3,"\u8981\u6c42\u4ed5\u69d8":2,"\u8981\u7d04":1,"\u8981\u7d20":1,"\u8a18\u4e8b\u304c\u63b2\u8f09\u3055\u308c\u3066\u3044\u308brss\u3078\u306eurl":1,"\u8a18\u4e8b\u304c\u767a\u884c\u3055\u308c\u305f\u65e5\u6642":[0,1],"\u8a18\u4e8b\u306e\u3069\u308c\u304b\u304c\u8868\u793a\u3055\u308c\u3066\u3044\u308b":1,"\u8a18\u4e8b\u306e\u30bf\u30a4\u30c8\u30eb":[0,1],"\u8a18\u4e8b\u306e\u53d6\u5f97":0,"\u8a18\u4e8b\u306e\u60c5\u5831\u3092\u53d6\u5f97\u3059\u308b\u30b9\u30af\u30ea\u30d7\u30c8\u304c\u5b9a\u671f\u7684\u306b\u5b9f\u884c\u3055\u308c\u3066mysql\u306b\u767b\u9332\u3055\u308c\u308b":0,"\u8a18\u4e8b\u306e\u8981\u7d04":0,"\u8a18\u4e8b\u306e\u8981\u7d04\u6587":1,"\u8a18\u4e8b\u306f\u5b9a\u671f\u7684\u306b\u66f4\u65b0\u3055\u308c\u308b":3,"\u8a18\u4e8b\u3078\u306eurl":0,"\u8a18\u4e8b\u3084\u305d\u308c\u306b\u95a2\u9023\u3059\u308b\u60c5\u5831\u306f\u53d6\u5f97\u3057\u305frss\u304b\u3089\u62bd\u51fa\u3059\u308b":1,"\u8a18\u4e8b\u3092\u53d6\u5f97\u3059\u308b":0,"\u8a18\u4e8b\u3092\u767b\u9332\u3059\u308barticles\u30c6\u30fc\u30d6\u30eb\u3092\u5b9a\u7fa9\u3059\u308b":0,"\u8a18\u4e8b\u3092\u8868\u3059\u30af\u30e9\u30b9":0,"\u8a18\u4e8b\u53d6\u5f97\u65e5":0,"\u8a18\u4e8b\u672c\u6587\u3078\u306eurl":0,"\u8a18\u4e8b\u7528\u30b9\u30af\u30ea\u30d7\u30c8":0,"\u8a2d\u8a08\u4ed5\u69d8\u3067\u306f\u4ee5\u4e0b\u3092\u5b9a\u7fa9\u3059\u308b":0,"\u8db3\u306e\u671f\u9593":0,"\u8db3\u306e\u7a2e\u985e":0,"\u958b\u59cb":0,"\u958b\u59cb\u6642\u523b":0,"\u96c6\u7d04\u3059\u308b\u305f\u3081\u306esql\u30af\u30a8\u30ea":0,"\u96c6\u8a08\u5bfe\u8c61\u30c7\u30fc\u30bf\u306e\u7bc4\u56f2":0,"\u96c6\u8a08\u5bfe\u8c61\u671f\u9593":0,"\u9ad8\u5024":0,"api\u3092\u5229\u7528\u3057\u3066\u30c4\u30a4\u30fc\u30c8\u60c5\u5831\u3092\u53d6\u5f97":0,"article\u30aa\u30d6\u30b8\u30a7\u30af\u30c8\u3092\u53d6\u5f97\u3057":0,"article\u30af\u30e9\u30b9\u306e\u30b3\u30f3\u30c8\u30ed\u30fc\u30e9":0,"articles\u306b\u30a2\u30af\u30bb\u30b9\u3059\u308b":0,"articles\u30c6\u30fc\u30d6\u30eb":0,"db\u306b\u767b\u9332\u3059\u308b":0,"float":0,"get_articles\u3092\u5b9f\u884c\u3057":0,"get_moving_average\u3092\u5b9f\u884c\u3059\u308b":0,"get_rates\u3092\u5b9f\u884c\u3059\u308b":0,"get_tweets\u3092\u5b9f\u884c\u3057":0,"import":0,"jp\u304b\u3089\u30ec\u30fc\u30c8\u60c5\u5831\u3092\u53d6\u5f97":0,"mvc\u30e2\u30c7\u30eb\u3092\u5229\u7528\u3059\u308b":0,"null":0,"rate\u30aa\u30d6\u30b8\u30a7\u30af\u30c8\u3092\u53d6\u5f97\u3057":0,"rate\u30af\u30e9\u30b9\u306e\u30b3\u30f3\u30c8\u30ed\u30fc\u30e9":0,"rates\u306b\u30a2\u30af\u30bb\u30b9\u3059\u308b":0,"rates\u30c6\u30fc\u30d6\u30eb":0,"rss\u304b\u3089\u8a18\u4e8b\u60c5\u5831\u3092\u62bd\u51fa":0,"show\u3092\u5b9f\u884c\u3059\u308b":0,"tweet\u30aa\u30d6\u30b8\u30a7\u30af\u30c8\u3092\u53d6\u5f97\u3057":0,"tweet\u30af\u30e9\u30b9\u306e\u30b3\u30f3\u30c8\u30ed\u30fc\u30e9":0,"tweets\u306b\u30a2\u30af\u30bb\u30b9\u3059\u308b":0,"tweets\u30c6\u30fc\u30d6\u30eb":0,"twitter\u304b\u3089\u53d6\u5f97\u3057\u305f\u30c4\u30a4\u30fc\u30c8\u3092\u30d6\u30e9\u30a6\u30b6\u4e0a\u306b\u8868\u793a\u3059\u308b":3,"update\u3092\u5b9f\u884c\u3057\u3066\u30b0\u30e9\u30d5\u3092\u66f4\u65b0\u3059\u308b":0,"update\u3092\u5b9f\u884c\u3057\u3066\u30c4\u30a4\u30fc\u30c8\u3092\u66f4\u65b0\u3059\u308b":0,"update\u3092\u5b9f\u884c\u3057\u3066\u8a18\u4e8b\u3092\u66f4\u65b0\u3059\u308b":0,"web\u30d6\u30e9\u30a6\u30b6\u4e0a\u3067\u8868\u793a\u3059\u308b\u753b\u9762":0,aggreg:0,articl:0,articles_control:0,articless:0,close:0,confirmation_view:0,content:2,control:0,created_at:0,dai:0,datetim:0,delet:0,dump:0,financ:0,from_dat:0,full_text:0,high:0,hour:0,index:2,info:0,interv:0,languag:1,low:0,min:0,model:0,modul:2,month:0,open:0,page:2,pair:0,profile_image_url:0,publish:0,queri:1,rate:0,rates_control:0,search:2,sql:0,summari:0,text:0,titl:0,to_dat:0,tweet:0,tweet_id:0,tweeted_at:0,tweets_control:0,twitter:0,updated_at:0,url:[0,1],usdjpi:0,user_nam:0,varcahr:0,varchar:0,view:0,week:0,yahoo:0,yql:1},titles:["\u8a2d\u8a08\u4ed5\u69d8","\u6a5f\u80fd\u4ed5\u69d8","Welcome to regulus&#8217;s documentation!","\u8981\u6c42\u4ed5\u69d8"],titleterms:{"\u30b9\u30af\u30ea\u30d7\u30c8\u4e00\u89a7":0,"\u30c4\u30a4\u30fc\u30c8":1,"\u30c4\u30a4\u30fc\u30c8\u306e\u8868\u793a":3,"\u30c4\u30a4\u30fc\u30c8\u3092\u78ba\u8a8d\u3059\u308b":0,"\u30c4\u30a4\u30fc\u30c8\u8868\u793a\u753b\u9762":1,"\u30c7\u30fc\u30bf\u30d9\u30fc\u30b9\u69cb\u6210":0,"\u30c7\u30fc\u30bf\u69cb\u9020":1,"\u30e2\u30b8\u30e5\u30fc\u30eb\u69cb\u6210":0,"\u30e6\u30fc\u30b6\u30fc\u30a4\u30f3\u30bf\u30fc\u30d5\u30a7\u30fc\u30b9":1,"\u30ec\u30fc\u30c8\u3092\u78ba\u8a8d\u3059\u308b":0,"\u30ec\u30fc\u30c8\u8868\u793a\u753b\u9762":1,"\u51e6\u7406\u624b\u9806":0,"\u5916\u90e8\u30b9\u30af\u30ea\u30d7\u30c8":0,"\u69cb\u6210\u8981\u7d20":1,"\u6a5f\u80fd\u4ed5\u69d8":1,"\u70ba\u66ff\u30ec\u30fc\u30c8":1,"\u70ba\u66ff\u30ec\u30fc\u30c8\u306e\u8868\u793a":3,"\u753b\u9762\u9077\u79fb\u56f3":1,"\u8981\u6c42\u4ed5\u69d8":3,"\u8a18\u4e8b":1,"\u8a18\u4e8b\u306e\u8868\u793a":3,"\u8a18\u4e8b\u3092\u78ba\u8a8d\u3059\u308b":0,"\u8a18\u4e8b\u8868\u793a\u753b\u9762":1,"\u8a2d\u8a08\u4ed5\u69d8":0,document:2,indic:2,regulu:2,tabl:2,welcom:2}})

diff --git a/regulus/sphinx/_build/html/design_spec.html b/regulus/sphinx/_build/html/design_spec.html
@@ -176,6 +176,8 @@
 <li>Rates_Controller#showを実行する</li>
 <li>Rates::get_ratesを実行する
 - 引数にはペアコードと足の種類（5分など）を指定する</li>
+<li>Rates::get_moving_averageを実行する
+- 引数にはペアコードと足の種類（5分など）を指定する</li>
 <li>取得したレートをグラフ化して表示する</li>
 <li>以降は10秒ごとにRates_Controller#updateを実行してグラフを更新する</li>
 </ol>

diff --git a/regulus/sphinx/design_spec.rst b/regulus/sphinx/design_spec.rst
@@ -124,8 +124,10 @@ MVCモデルを利用する
 2. Rates_Controller#showを実行する
 3. Rates::get_ratesを実行する
    - 引数にはペアコードと足の種類（5分など）を指定する
-4. 取得したレートをグラフ化して表示する
-5. 以降は10秒ごとにRates_Controller#updateを実行してグラフを更新する
+4. Rates::get_moving_averageを実行する
+   - 引数にはペアコードと足の種類（5分など）を指定する
+5. 取得したレートをグラフ化して表示する
+6. 以降は10秒ごとにRates_Controller#updateを実行してグラフを更新する
 
 ツイートを確認する
 ^^^^^^^^^^^^^^^^^^
